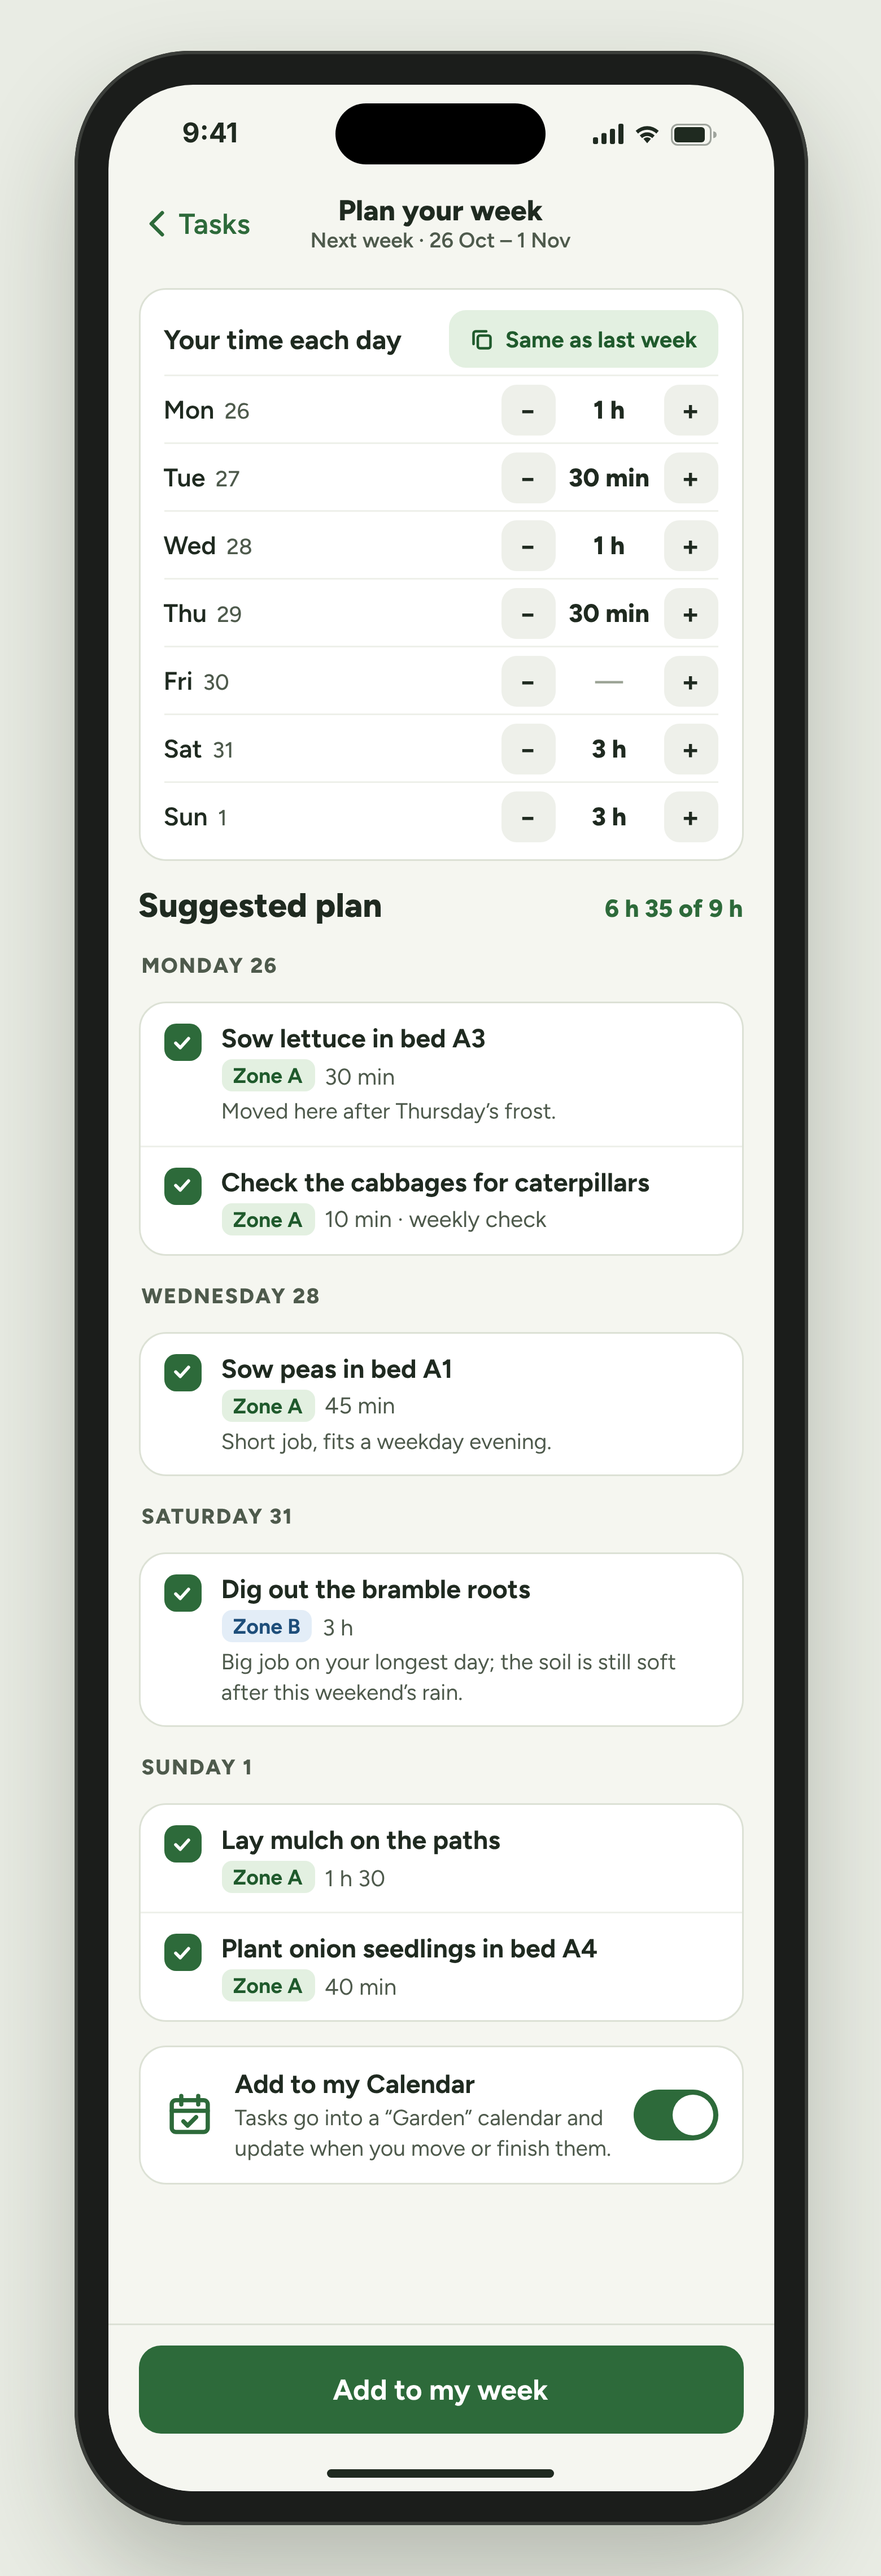
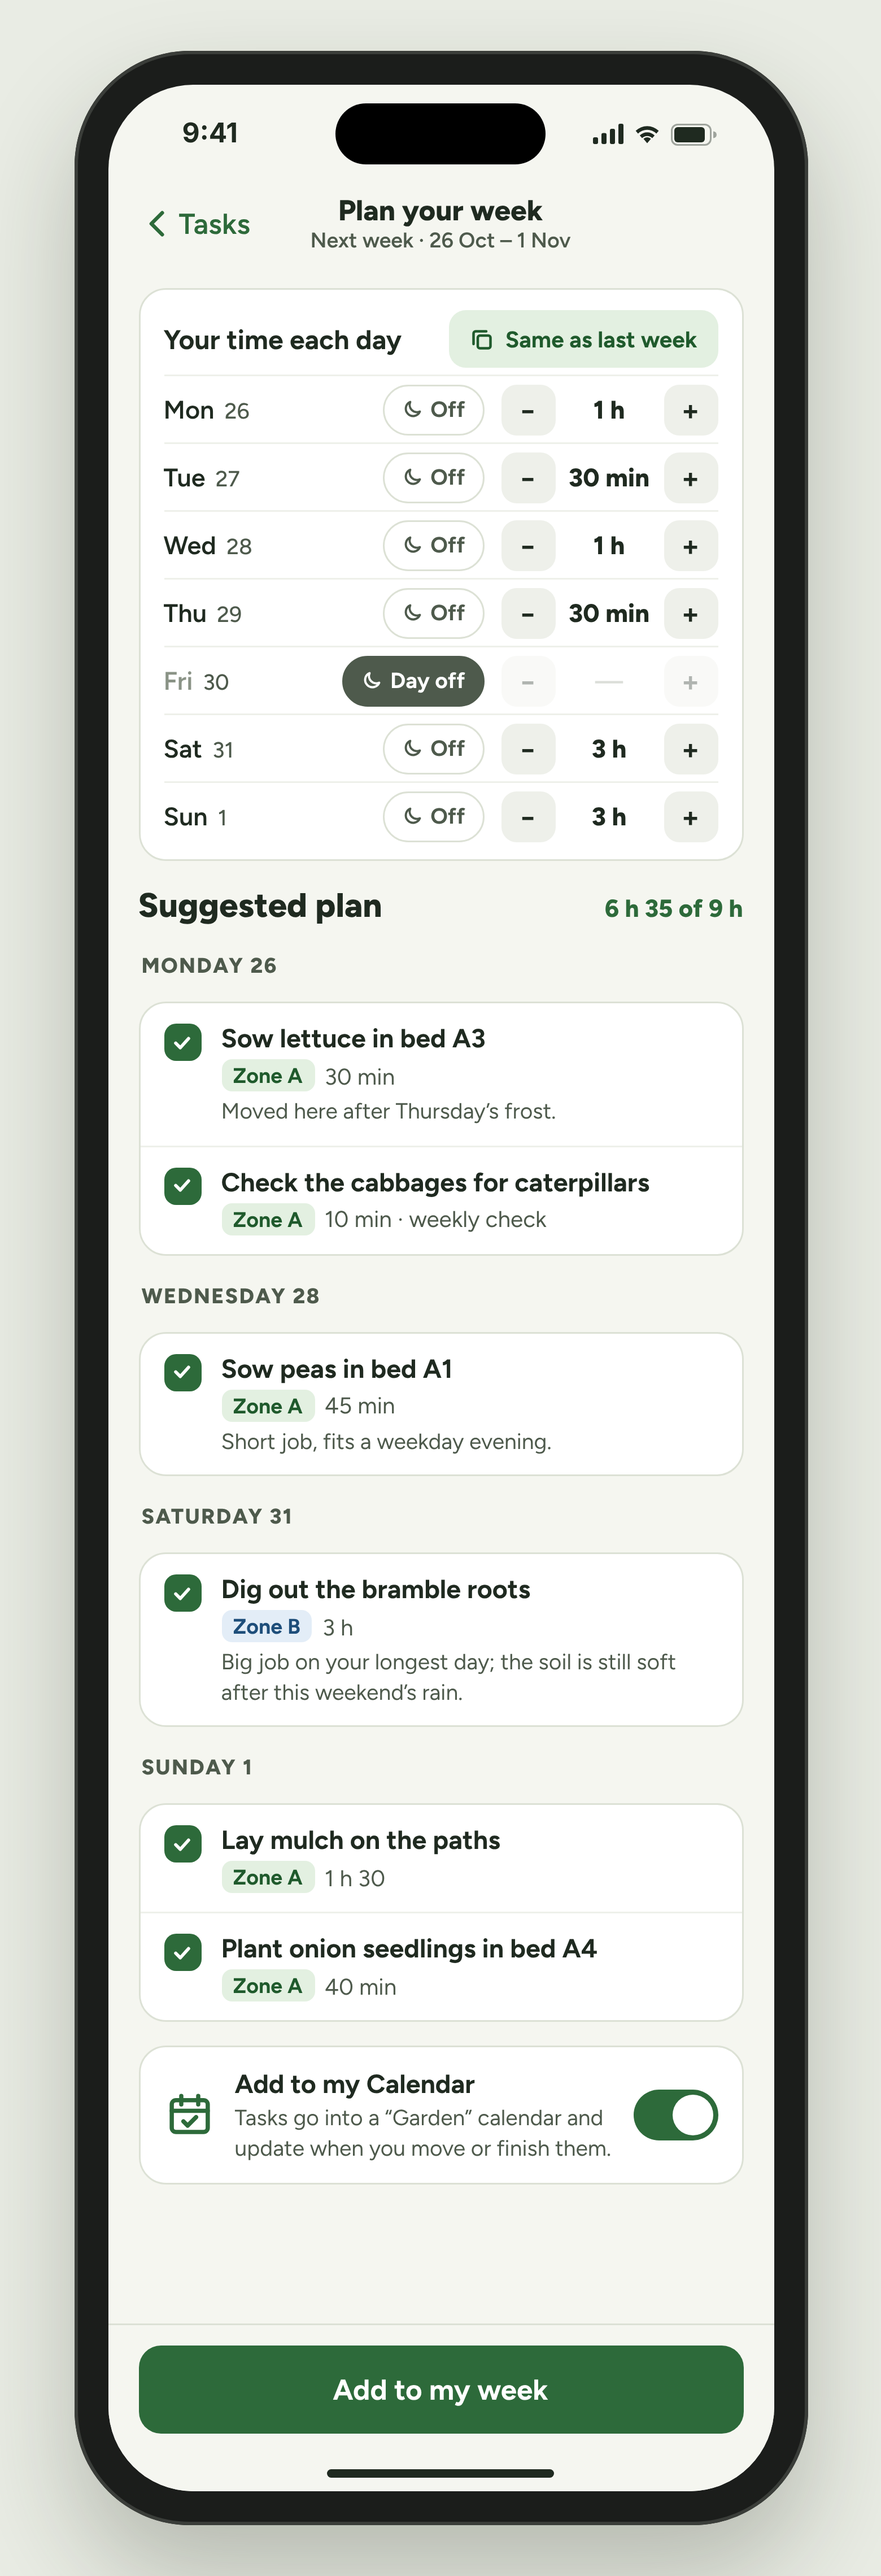
Design: B4 one-tap Day off per day
Claude-Session: https://claude.ai/code/session_015NynAjU4naPZwzmeuGazot

Changed region(s): [[0.3692, 0.1557, 0.5538, 0.3425]]

diff --git a/design/source/B4-plan-your-week-full.html b/design/source/B4-plan-your-week-full.html
@@ -24,6 +24,10 @@
   .step span.b { width: 32px; height: 30px; border-radius: 9px; background: #EEF0EA; display: flex; align-items: center; justify-content: center; font-size: 17px; font-weight: 700; }
   .step span.v { width: 52px; text-align: center; font-size: 15px; font-weight: 800; }
   .step span.v.zero { color: #9AA294; font-weight: 600; }
+  .offc { display: flex; align-items: center; gap: 4px; height: 30px; padding: 0 10px; border-radius: 999px; border: 1.5px solid var(--line); font-size: 13px; font-weight: 700; color: var(--muted); margin-right: 10px; background: #fff; }
+  .offc.on { background: #4E5A4C; border-color: #4E5A4C; color: #fff; }
+  .off-day .dn { color: #8A9386; }
+  .step.dim { opacity: .35; }
   .sec { display: flex; justify-content: space-between; align-items: baseline; }
   h2 { margin: 0; font-size: 20px; font-weight: 800; }
   .tot { font-size: 14.5px; font-weight: 800; color: var(--green); }
@@ -69,13 +73,13 @@
     <div class="card hrs">
       <div class="hhead"><b>Your time each day</b>
         <span class="copy"><svg width="15" height="15" viewBox="0 0 24 24" fill="none" stroke="#1F5A2C" stroke-width="2.4" stroke-linecap="round" stroke-linejoin="round"><rect x="8" y="8" width="12" height="12" rx="2"/><path d="M4 16V6a2 2 0 0 1 2-2h10"/></svg>Same as last week</span></div>
-      <div class="day"><span class="dn">Mon<small>26</small></span><span class="step"><span class="b">−</span><span class="v">1 h</span><span class="b">+</span></span></div>
-      <div class="day"><span class="dn">Tue<small>27</small></span><span class="step"><span class="b">−</span><span class="v">30 min</span><span class="b">+</span></span></div>
-      <div class="day"><span class="dn">Wed<small>28</small></span><span class="step"><span class="b">−</span><span class="v">1 h</span><span class="b">+</span></span></div>
-      <div class="day"><span class="dn">Thu<small>29</small></span><span class="step"><span class="b">−</span><span class="v">30 min</span><span class="b">+</span></span></div>
-      <div class="day"><span class="dn">Fri<small>30</small></span><span class="step"><span class="b">−</span><span class="v zero">—</span><span class="b">+</span></span></div>
-      <div class="day"><span class="dn">Sat<small>31</small></span><span class="step"><span class="b">−</span><span class="v">3 h</span><span class="b">+</span></span></div>
-      <div class="day"><span class="dn">Sun<small>1</small></span><span class="step"><span class="b">−</span><span class="v">3 h</span><span class="b">+</span></span></div>
+      <div class="day"><span class="dn">Mon<small>26</small></span><span class="offc"><svg width="13" height="13" viewBox="0 0 24 24" fill="none" stroke="currentColor" stroke-width="2.4" stroke-linecap="round" stroke-linejoin="round"><path d="M20 14.5A8 8 0 0 1 9.5 4a8 8 0 1 0 10.5 10.5z"/></svg>Off</span><span class="step"><span class="b">−</span><span class="v">1 h</span><span class="b">+</span></span></div>
+      <div class="day"><span class="dn">Tue<small>27</small></span><span class="offc"><svg width="13" height="13" viewBox="0 0 24 24" fill="none" stroke="currentColor" stroke-width="2.4" stroke-linecap="round" stroke-linejoin="round"><path d="M20 14.5A8 8 0 0 1 9.5 4a8 8 0 1 0 10.5 10.5z"/></svg>Off</span><span class="step"><span class="b">−</span><span class="v">30 min</span><span class="b">+</span></span></div>
+      <div class="day"><span class="dn">Wed<small>28</small></span><span class="offc"><svg width="13" height="13" viewBox="0 0 24 24" fill="none" stroke="currentColor" stroke-width="2.4" stroke-linecap="round" stroke-linejoin="round"><path d="M20 14.5A8 8 0 0 1 9.5 4a8 8 0 1 0 10.5 10.5z"/></svg>Off</span><span class="step"><span class="b">−</span><span class="v">1 h</span><span class="b">+</span></span></div>
+      <div class="day"><span class="dn">Thu<small>29</small></span><span class="offc"><svg width="13" height="13" viewBox="0 0 24 24" fill="none" stroke="currentColor" stroke-width="2.4" stroke-linecap="round" stroke-linejoin="round"><path d="M20 14.5A8 8 0 0 1 9.5 4a8 8 0 1 0 10.5 10.5z"/></svg>Off</span><span class="step"><span class="b">−</span><span class="v">30 min</span><span class="b">+</span></span></div>
+      <div class="day off-day"><span class="dn">Fri<small>30</small></span><span class="offc on"><svg width="13" height="13" viewBox="0 0 24 24" fill="none" stroke="currentColor" stroke-width="2.4" stroke-linecap="round" stroke-linejoin="round"><path d="M20 14.5A8 8 0 0 1 9.5 4a8 8 0 1 0 10.5 10.5z"/></svg>Day off</span><span class="step dim"><span class="b">−</span><span class="v zero">—</span><span class="b">+</span></span></div>
+      <div class="day"><span class="dn">Sat<small>31</small></span><span class="offc"><svg width="13" height="13" viewBox="0 0 24 24" fill="none" stroke="currentColor" stroke-width="2.4" stroke-linecap="round" stroke-linejoin="round"><path d="M20 14.5A8 8 0 0 1 9.5 4a8 8 0 1 0 10.5 10.5z"/></svg>Off</span><span class="step"><span class="b">−</span><span class="v">3 h</span><span class="b">+</span></span></div>
+      <div class="day"><span class="dn">Sun<small>1</small></span><span class="offc"><svg width="13" height="13" viewBox="0 0 24 24" fill="none" stroke="currentColor" stroke-width="2.4" stroke-linecap="round" stroke-linejoin="round"><path d="M20 14.5A8 8 0 0 1 9.5 4a8 8 0 1 0 10.5 10.5z"/></svg>Off</span><span class="step"><span class="b">−</span><span class="v">3 h</span><span class="b">+</span></span></div>
     </div>
 
     <div class="sec"><h2>Suggested plan</h2><span class="tot">6 h 35 of 9 h</span></div>

diff --git a/design/source/B4-plan-your-week.html b/design/source/B4-plan-your-week.html
@@ -24,6 +24,10 @@
   .step span.b { width: 32px; height: 30px; border-radius: 9px; background: #EEF0EA; display: flex; align-items: center; justify-content: center; font-size: 17px; font-weight: 700; }
   .step span.v { width: 52px; text-align: center; font-size: 15px; font-weight: 800; }
   .step span.v.zero { color: #9AA294; font-weight: 600; }
+  .offc { display: flex; align-items: center; gap: 4px; height: 30px; padding: 0 10px; border-radius: 999px; border: 1.5px solid var(--line); font-size: 13px; font-weight: 700; color: var(--muted); margin-right: 10px; background: #fff; }
+  .offc.on { background: #4E5A4C; border-color: #4E5A4C; color: #fff; }
+  .off-day .dn { color: #8A9386; }
+  .step.dim { opacity: .35; }
   .sec { display: flex; justify-content: space-between; align-items: baseline; }
   h2 { margin: 0; font-size: 20px; font-weight: 800; }
   .tot { font-size: 14.5px; font-weight: 800; color: var(--green); }
@@ -68,13 +72,13 @@
     <div class="card hrs">
       <div class="hhead"><b>Your time each day</b>
         <span class="copy"><svg width="15" height="15" viewBox="0 0 24 24" fill="none" stroke="#1F5A2C" stroke-width="2.4" stroke-linecap="round" stroke-linejoin="round"><rect x="8" y="8" width="12" height="12" rx="2"/><path d="M4 16V6a2 2 0 0 1 2-2h10"/></svg>Same as last week</span></div>
-      <div class="day"><span class="dn">Mon<small>26</small></span><span class="step"><span class="b">−</span><span class="v">1 h</span><span class="b">+</span></span></div>
-      <div class="day"><span class="dn">Tue<small>27</small></span><span class="step"><span class="b">−</span><span class="v">30 min</span><span class="b">+</span></span></div>
-      <div class="day"><span class="dn">Wed<small>28</small></span><span class="step"><span class="b">−</span><span class="v">1 h</span><span class="b">+</span></span></div>
-      <div class="day"><span class="dn">Thu<small>29</small></span><span class="step"><span class="b">−</span><span class="v">30 min</span><span class="b">+</span></span></div>
-      <div class="day"><span class="dn">Fri<small>30</small></span><span class="step"><span class="b">−</span><span class="v zero">—</span><span class="b">+</span></span></div>
-      <div class="day"><span class="dn">Sat<small>31</small></span><span class="step"><span class="b">−</span><span class="v">3 h</span><span class="b">+</span></span></div>
-      <div class="day"><span class="dn">Sun<small>1</small></span><span class="step"><span class="b">−</span><span class="v">3 h</span><span class="b">+</span></span></div>
+      <div class="day"><span class="dn">Mon<small>26</small></span><span class="offc"><svg width="13" height="13" viewBox="0 0 24 24" fill="none" stroke="currentColor" stroke-width="2.4" stroke-linecap="round" stroke-linejoin="round"><path d="M20 14.5A8 8 0 0 1 9.5 4a8 8 0 1 0 10.5 10.5z"/></svg>Off</span><span class="step"><span class="b">−</span><span class="v">1 h</span><span class="b">+</span></span></div>
+      <div class="day"><span class="dn">Tue<small>27</small></span><span class="offc"><svg width="13" height="13" viewBox="0 0 24 24" fill="none" stroke="currentColor" stroke-width="2.4" stroke-linecap="round" stroke-linejoin="round"><path d="M20 14.5A8 8 0 0 1 9.5 4a8 8 0 1 0 10.5 10.5z"/></svg>Off</span><span class="step"><span class="b">−</span><span class="v">30 min</span><span class="b">+</span></span></div>
+      <div class="day"><span class="dn">Wed<small>28</small></span><span class="offc"><svg width="13" height="13" viewBox="0 0 24 24" fill="none" stroke="currentColor" stroke-width="2.4" stroke-linecap="round" stroke-linejoin="round"><path d="M20 14.5A8 8 0 0 1 9.5 4a8 8 0 1 0 10.5 10.5z"/></svg>Off</span><span class="step"><span class="b">−</span><span class="v">1 h</span><span class="b">+</span></span></div>
+      <div class="day"><span class="dn">Thu<small>29</small></span><span class="offc"><svg width="13" height="13" viewBox="0 0 24 24" fill="none" stroke="currentColor" stroke-width="2.4" stroke-linecap="round" stroke-linejoin="round"><path d="M20 14.5A8 8 0 0 1 9.5 4a8 8 0 1 0 10.5 10.5z"/></svg>Off</span><span class="step"><span class="b">−</span><span class="v">30 min</span><span class="b">+</span></span></div>
+      <div class="day off-day"><span class="dn">Fri<small>30</small></span><span class="offc on"><svg width="13" height="13" viewBox="0 0 24 24" fill="none" stroke="currentColor" stroke-width="2.4" stroke-linecap="round" stroke-linejoin="round"><path d="M20 14.5A8 8 0 0 1 9.5 4a8 8 0 1 0 10.5 10.5z"/></svg>Day off</span><span class="step dim"><span class="b">−</span><span class="v zero">—</span><span class="b">+</span></span></div>
+      <div class="day"><span class="dn">Sat<small>31</small></span><span class="offc"><svg width="13" height="13" viewBox="0 0 24 24" fill="none" stroke="currentColor" stroke-width="2.4" stroke-linecap="round" stroke-linejoin="round"><path d="M20 14.5A8 8 0 0 1 9.5 4a8 8 0 1 0 10.5 10.5z"/></svg>Off</span><span class="step"><span class="b">−</span><span class="v">3 h</span><span class="b">+</span></span></div>
+      <div class="day"><span class="dn">Sun<small>1</small></span><span class="offc"><svg width="13" height="13" viewBox="0 0 24 24" fill="none" stroke="currentColor" stroke-width="2.4" stroke-linecap="round" stroke-linejoin="round"><path d="M20 14.5A8 8 0 0 1 9.5 4a8 8 0 1 0 10.5 10.5z"/></svg>Off</span><span class="step"><span class="b">−</span><span class="v">3 h</span><span class="b">+</span></span></div>
     </div>
 
     <div class="sec"><h2>Suggested plan</h2><span class="tot">6 h 35 of 9 h</span></div>

diff --git a/CLAUDE.md b/CLAUDE.md
@@ -83,7 +83,7 @@ The owner is used to Azure DevOps, so the same hierarchy is used, built with sub
 | 2026-10-20 | **Design approach:** each screen is shown as a realistic iPhone render (`design/screens/*.png`, source in `design/source/`, rendered with `design/source/shot.js`). Visual style: Figtree, leaf green #2D6A3A for actions, orange only for warnings, off-white #F5F6F0 background, large touch targets. **A1 Welcome and sign in: approved.** **A2 Find your plot: approved.** **A3 Draw your plot: approved.** **A4 Zones: approved** (zones are created by Split and Add; the whole plot starts as one zone). **A5 Water and points + A5b point details: approved** (each point type has a details panel; trees picked from a regional tree catalogue with pictures, or identified by photo; height slider; keep or remove). **A6 What's there already: approved.** **A7 Choose crops: approved** (priority, quantity and variety are set later in Plan → Crops). **A8 Preferences: approved.** **A9 Plan ready: approved** (first-run setup A1–A9 complete). **B1 Today: approved** (sample shows the garden a few weeks into the plan). **B2 Tasks: approved** (opened from Today; drill-down pages use a labelled back button and small title, no avatar). **B3 Task detail: approved** (missing tools are added to Tools to get automatically when "always own" is on). |
 | 2026-10-20 | **All 46 screens rendered** (A1–G6) at the owner's request, for review together. A4 onwards are awaiting the owner's review. Overview sheets: `design/overview/overview-<A–G>.png`. |
 | 2026-10-20 | **Back to one-screen-at-a-time review** after all 46 renders were made. **The GitHub backlog (issues and sprints) will be deleted** and recreated after the design is signed off. |
-| 2026-10-26 | **Weekend planner becomes a week planner** ("Plan your week", B4): hours per day for next week (Mon–Sun) with "Same as last week", tasks spread across days by window, weather and size. **Monday reminder** to plan next week, and a **"Plan next week" card on Today** that escalates green (Mon–Wed) → amber (Thu–Fri) → orange (Sat–Sun) until it's planned. **Calendar: write-only** — planned tasks go into a separate "Garden" calendar and stay in sync; the app never reads the user's calendar. Backlog to be updated accordingly (phone-calendar export moves into the week planner). |
+| 2026-10-26 | **Weekend planner becomes a week planner** ("Plan your week", B4): hours per day for next week (Mon–Sun) with "Same as last week" and a one-tap **"Day off"** button per day, tasks spread across days by window, weather and size. **Monday reminder** to plan next week, and a **"Plan next week" card on Today** that escalates green (Mon–Wed) → amber (Thu–Fri) → orange (Sat–Sun) until it's planned. **Calendar: write-only** — planned tasks go into a separate "Garden" calendar and stay in sync; the app never reads the user's calendar. Backlog to be updated accordingly (phone-calendar export moves into the week planner). |
 
 ## Open decisions
 - None at the moment
